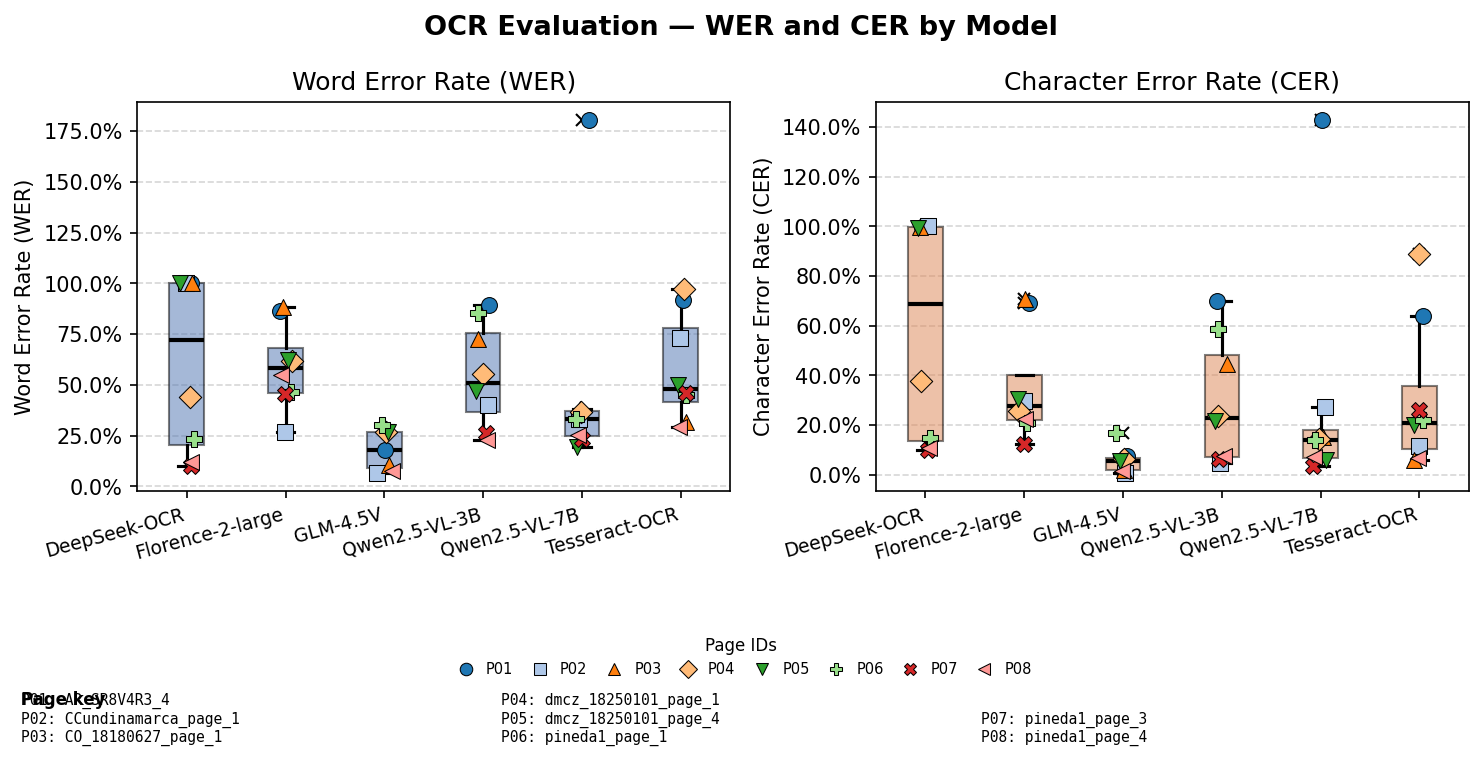
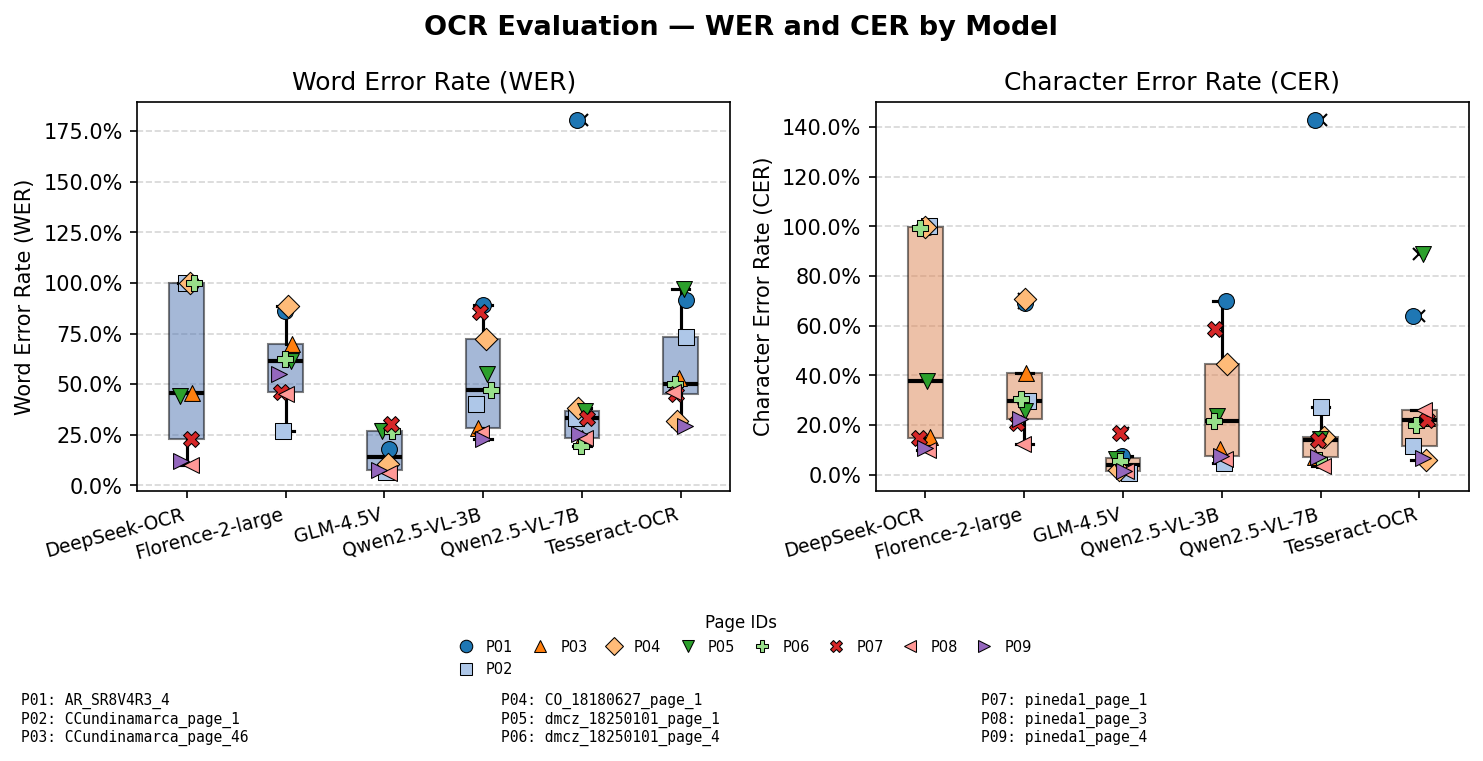
Refactor plotresults.py to enhance page selection logic and remove unused metadata; update spotlight plotting function to auto-detect best and worst pages based on median WER.

diff --git a/plotresults.py b/plotresults.py
@@ -34,18 +34,6 @@ MODEL_SHORT = {
     "Tesseract-OCR":   "Tesseract",
 }
 
-DOC_META = {
-    "pineda1_page_4": {
-        "label": "pineda1 — page 4",
-        "desc":  "Printed book (1852)\n300 DPI · PNG",
-    },
-    "AR_SR8V4R3_4": {
-        "label": "AR_SR8V4R3 — page 4",
-        "desc":  "Handwritten archival\n200 DPI · JPG\nMultispectral scan",
-    },
-}
-
-
 def load_by_page() -> dict[str, dict[str, tuple]]:
     """Return {page: {model: (wer, cer, has_text)}}."""
     pattern = re.compile(r"^(.+?)_(.+?)_evaluation\.json$")
@@ -71,6 +59,33 @@ def find_image(page_key: str) -> Path | None:
             if candidate.exists():
                 return candidate
     return None
+
+
+def find_segmented_image(page_key: str) -> Path | None:
+    """Locate the DeepSeek-OCR segmentation image for a given page key."""
+    seg_root = Path("segmented") / "DeepSeek-OCR"
+    if not seg_root.exists():
+        return None
+    for doc_dir in sorted(seg_root.iterdir()):
+        if not doc_dir.is_dir():
+            continue
+        for ext in ("jpg", "png", "jpeg"):
+            candidate = doc_dir / f"{page_key}.{ext}"
+            if candidate.exists():
+                return candidate
+    return None
+
+
+def pick_best_worst_pages(data_by_page: dict) -> tuple[str, str]:
+    """Return (best_page, worst_page) by median WER across models."""
+    medians = {
+        page: np.median([v[0] for v in models.values()])
+        for page, models in data_by_page.items()
+        if models
+    }
+    best  = min(medians, key=medians.__getitem__)
+    worst = max(medians, key=medians.__getitem__)
+    return best, worst
 
 
 def load_evaluations() -> dict[str, dict[str, list[float]]]:
@@ -204,7 +219,6 @@ def plot(data: dict) -> None:
     if legend_items:
         columns = min(3, len(legend_items))
         chunks = np.array_split(legend_items, columns)
-        fig.text(0.02, 0.055, "Page key", fontsize=8, fontweight="bold", ha="left", va="bottom")
         for col, chunk in enumerate(chunks):
             key_text = "\n".join(f"{item[0]}: {item[1]}" for item in chunk)
             fig.text(
@@ -226,12 +240,18 @@ def plot(data: dict) -> None:
 
 def plot_spotlight(
     data_by_page: dict,
-    best_page: str = "pineda1_page_4",
-    worst_page: str = "AR_SR8V4R3_4",
+    best_page: str | None = None,
+    worst_page: str | None = None,
 ) -> None:
+    if best_page is None or worst_page is None:
+        auto_best, auto_worst = pick_best_worst_pages(data_by_page)
+        if best_page is None:
+            best_page = auto_best
+        if worst_page is None:
+            worst_page = auto_worst
+
     pages      = [best_page, worst_page]
-    accents    = ["#2ca02c", "#d62728"]
-    row_labels = ["Best document", "Worst document"]
+    row_labels = ["Best (lowest median WER)", "Worst (highest median WER)"]
 
     fig = plt.figure(figsize=(14, 8))
     gs  = gridspec.GridSpec(2, 3, width_ratios=[1.5, 2, 2], hspace=0.55, wspace=0.35)
@@ -240,8 +260,7 @@ def plot_spotlight(
         fontsize=14, fontweight="bold", y=1.01,
     )
 
-    for row, (page, accent, row_label) in enumerate(zip(pages, accents, row_labels)):
-        meta         = DOC_META.get(page, {"label": page, "desc": ""})
+    for row, (page, row_label) in enumerate(zip(pages, row_labels)):
         page_results = data_by_page.get(page, {})
         models_here  = sorted(page_results.keys())
         x            = np.arange(len(models_here))
@@ -249,7 +268,7 @@ def plot_spotlight(
 
         # --- Thumbnail ---
         ax_img = fig.add_subplot(gs[row, 0])
-        img_path = find_image(page)
+        img_path = find_segmented_image(page) or find_image(page)
         if img_path:
             img = imread(str(img_path))
             ax_img.imshow(img, aspect="auto")
@@ -260,11 +279,9 @@ def plot_spotlight(
         ax_img.set_xticks([])
         ax_img.set_yticks([])
         for spine in ax_img.spines.values():
-            spine.set_visible(True)
-            spine.set_edgecolor(accent)
-            spine.set_linewidth(2.5)
+            spine.set_visible(False)
         ax_img.set_title(
-            f"{row_label}\n{meta['label']}\n{meta['desc']}",
+            f"{row_label}\n{page}",
             fontsize=9, loc="left", pad=6,
         )
 
@@ -337,6 +354,18 @@ if __name__ == "__main__":
         default="boxplot",
         help="Chart type to generate (default: boxplot)",
     )
+    parser.add_argument(
+        "--best-page",
+        default=None,
+        metavar="PAGE",
+        help="Override the best page (default: auto-detected by median WER)",
+    )
+    parser.add_argument(
+        "--worst-page",
+        default=None,
+        metavar="PAGE",
+        help="Override the worst page (default: auto-detected by median WER)",
+    )
     args = parser.parse_args()
 
     if args.chart == "spotlight":
@@ -344,7 +373,9 @@ if __name__ == "__main__":
         if not by_page:
             print("No evaluation files found in evaluations/")
         else:
-            plot_spotlight(by_page)
+            plot_spotlight(by_page,
+                           best_page=args.best_page,
+                           worst_page=args.worst_page)
     else:
         data = load_evaluations()
         if not data:
